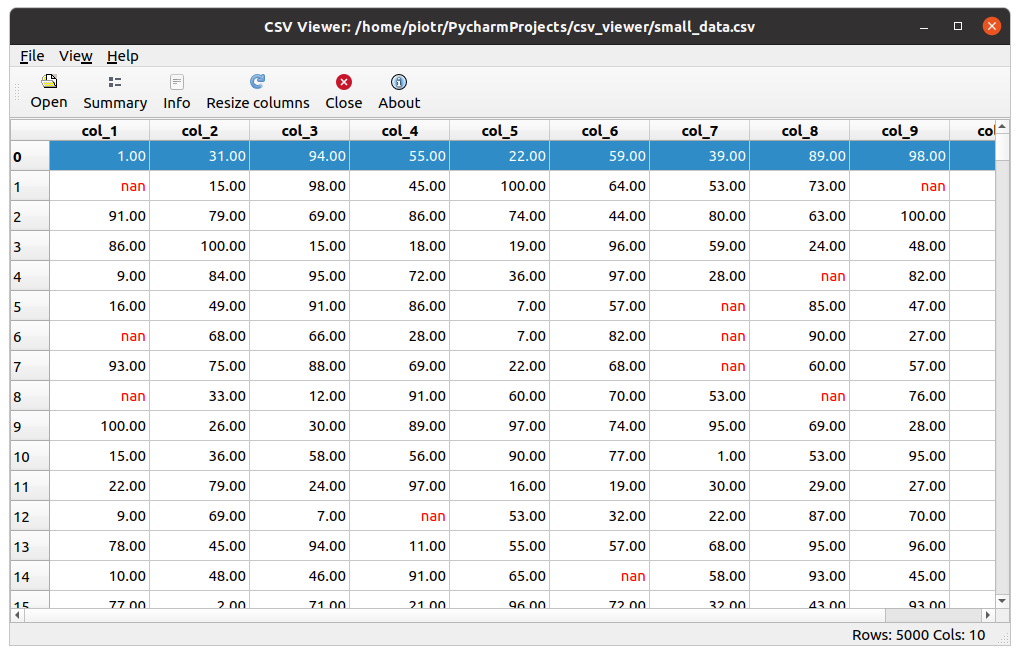
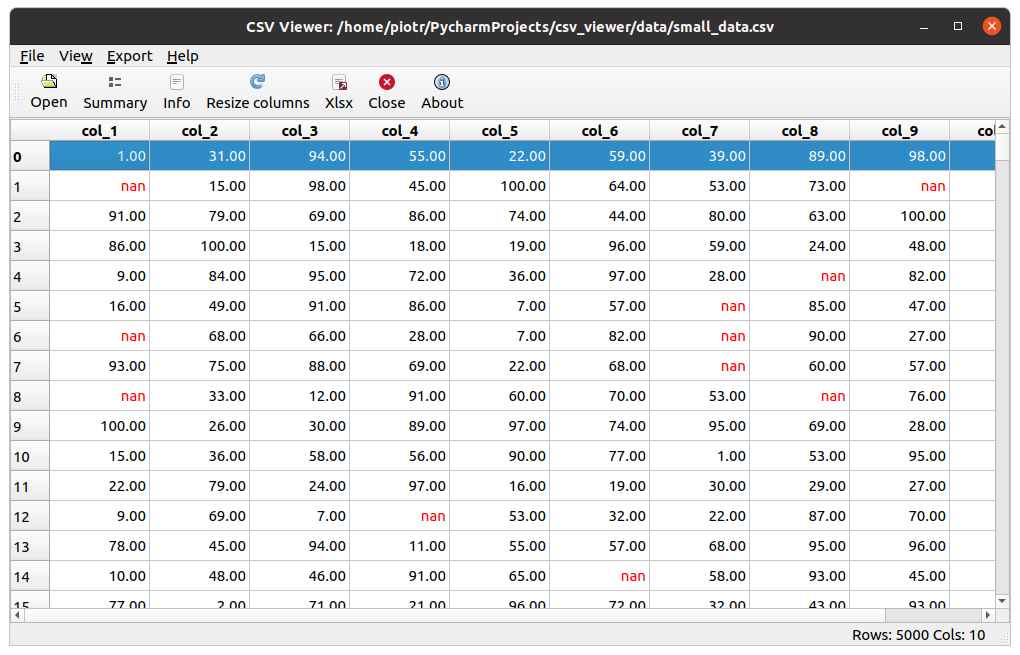
export to xlsx

Changed region(s): [[0.2431, 0.0305, 0.7598, 0.0611], [0.3039, 0.0916, 0.4559, 0.1832], [0.0912, 0.0611, 0.2127, 0.0916]]

diff --git a/src/mainwindow.py b/src/mainwindow.py
@@ -2,7 +2,7 @@ import io
 import numpy as np
 import pandas as pd
 from PyQt5 import QtCore, QtWidgets, QtGui
-from PyQt5.QtWidgets import QToolBar, QAction, QStatusBar, QStyle, QMessageBox, QLabel
+from PyQt5.QtWidgets import QToolBar, QAction, QStatusBar, QStyle, QMessageBox, QLabel, QFileDialog
 from PyQt5.QtCore import Qt, QSize, QSettings, QFileInfo
 from summary import SummaryDialog
 from fileparam import ParameterDialog
@@ -95,10 +95,19 @@ class MainWindow(QtWidgets.QMainWindow):
         style_resize = self.toolbar.style()
         icon = style_resize.standardIcon(QStyle.SP_BrowserReload)
         self.button_resize = QAction(icon, "Resize columns", self)
-        self.button_resize.setStatusTip("Resize columns width to content ")
+        self.button_resize.setStatusTip("Resize columns width to content")
         self.button_resize.triggered.connect(self.onResizeColumns)
         self.toolbar.addAction(self.button_resize)
         self.button_resize.setEnabled(False)
+
+        # export to xlsx action
+        style_xlsx = self.toolbar.style()
+        icon = style_xlsx.standardIcon(QStyle.SP_FileLinkIcon)
+        self.button_xlsx = QAction(icon, "Xlsx", self)
+        self.button_xlsx.setStatusTip("Export data to xlsx file")
+        self.button_xlsx.triggered.connect(self.onExportXlsx)
+        self.toolbar.addAction(self.button_xlsx)
+        self.button_xlsx.setEnabled(False)
 
         # close action
         style_close = self.toolbar.style()
@@ -147,6 +156,9 @@ class MainWindow(QtWidgets.QMainWindow):
         view_menu.addAction(self.button_info)
         view_menu.addSeparator()
         view_menu.addAction(self.button_resize)
+
+        export_menu = menu.addMenu("&Export")
+        export_menu.addAction(self.button_xlsx)
 
         help_menu = menu.addMenu("&Help")
         help_menu.addAction(self.button_about)
@@ -216,6 +228,7 @@ class MainWindow(QtWidgets.QMainWindow):
             self.button_summary.setEnabled(True)
             self.button_info.setEnabled(True)
             self.button_resize.setEnabled(True)
+            self.button_xlsx.setEnabled(True)
             self.setWindowTitle(self.app_title + ": " + file_name)
         except Exception as e:
             QMessageBox.warning(self, 'Error', f"Error loading the file:\n {file_name}")
@@ -232,6 +245,7 @@ class MainWindow(QtWidgets.QMainWindow):
         self.button_summary.setEnabled(False)
         self.button_info.setEnabled(False)
         self.button_resize.setEnabled(False)
+        self.button_xlsx.setEnabled(False)
         self.labelStatus.setText("Rows: 0 Cols: 0")
 
     def onToolbarSummaryButtonClick(self):
@@ -249,6 +263,12 @@ class MainWindow(QtWidgets.QMainWindow):
         dlg = InfoDialog(tmp)
         dlg.setWindowTitle("Info")
         dlg.exec_()
+
+    def onExportXlsx(self):
+        """ Export data to xlsx file """
+        file_name, _ = QFileDialog.getSaveFileName(self, 'Export to file', '', ".xlsx(*.xlsx)")
+        if file_name:
+            self.df.to_excel(file_name, engine='xlsxwriter')
 
     def closeEvent(self, event):
         """ Quit application, ask user before """

diff --git a/README.md b/README.md
@@ -5,6 +5,7 @@ CSV files viewer
 -   PyQt5
 -   Python 3.x  
 -   Pandas 
+-   XlsWriter
 
 ## Command line usage: 
 
